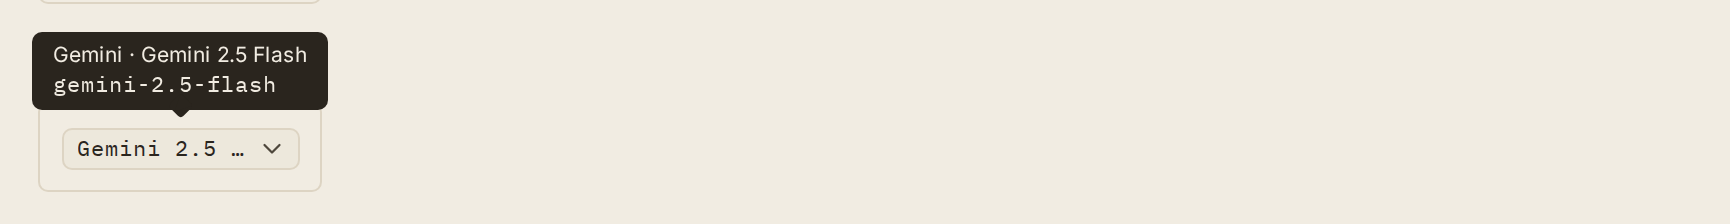
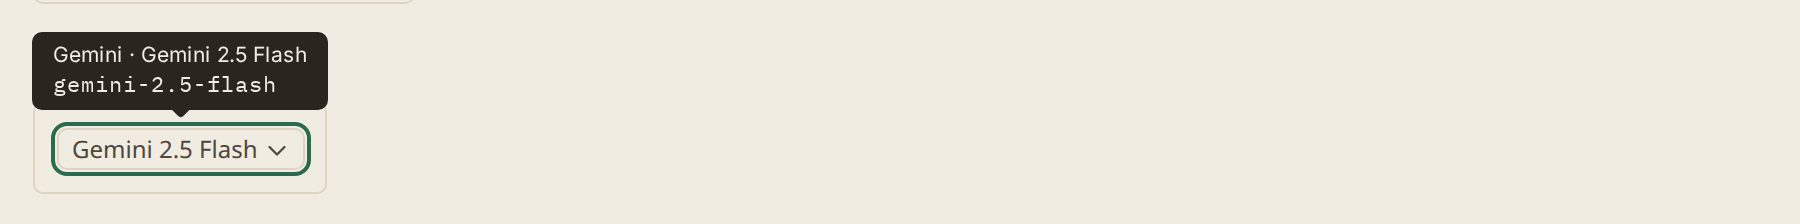
fix: reconnect after a slow bridge restart, and widen the model chip
Only sockets that actually open spend the drop budget. A minute of
healthy connection clears it, and focus, visibility, or coming back
online starts a fresh try. The chip is 12rem wide in Inter at 12px so
Gemini 2.5 Flash stays whole.

diff --git a/src/hooks/useAiActivity.ts b/src/hooks/useAiActivity.ts
@@ -24,8 +24,12 @@ const WS_UI_URL = 'ws://localhost:9711'
 const HIGHLIGHT_DURATION_MS = 800
 const RECONNECT_BASE_MS = 3000
 const RECONNECT_MAX_MS = 30_000
-/** A bridge that connects and then dies does not reconnect forever. */
-const MAX_DROPS_AFTER_OPEN = 5
+/** Opened sockets that then die. A retry that never connects does not count. */
+const MAX_OPENED_DROPS = 5
+/** A minute up clears the drop count, so later blips get a fresh budget. */
+const HEALTHY_RESET_MS = 60_000
+const WS_CONNECTING = 0
+const WS_OPEN = 1
 
 function reconnectDelay(attempt: number): number {
   return Math.min(RECONNECT_MAX_MS, RECONNECT_BASE_MS * 2 ** attempt)
@@ -163,12 +167,18 @@ function useUiActionSocket(handleMessage: (event: MessageEvent) => void, clearHi
     let ws: WebSocket | null = null
     let mounted = true
     let attempt = 0
-    let opened = false
-    let dropsAfterOpen = 0
+    let openedDrops = 0
+    let gaveUp = false
     let reconnectTimer: ReturnType<typeof setTimeout> | null = null
+    let healthyTimer: ReturnType<typeof setTimeout> | null = null
+
+    function clearHealthyTimer() {
+      if (healthyTimer) clearTimeout(healthyTimer)
+      healthyTimer = null
+    }
 
     function scheduleReconnect() {
-      if (!mounted || reconnectTimer) return
+      if (!mounted || gaveUp || reconnectTimer) return
       const delay = reconnectDelay(attempt)
       attempt += 1
       reconnectTimer = setTimeout(() => {
@@ -178,25 +188,38 @@ function useUiActionSocket(handleMessage: (event: MessageEvent) => void, clearHi
     }
 
     function connect() {
-      if (!mounted) return
+      if (!mounted || gaveUp) return
+      if (ws && (ws.readyState === WS_CONNECTING || ws.readyState === WS_OPEN)) return
       try {
-        ws = new WebSocket(WS_UI_URL)
-        ws.onmessage = handleMessage
-        ws.onopen = () => {
-          opened = true
+        const socket = new WebSocket(WS_UI_URL)
+        ws = socket
+        let thisOpened = false
+        socket.onmessage = handleMessage
+        socket.onopen = () => {
+          thisOpened = true
           attempt = 0
+          clearHealthyTimer()
+          healthyTimer = setTimeout(() => {
+            openedDrops = 0
+          }, HEALTHY_RESET_MS)
         }
-        ws.onclose = () => {
-          if (opened) {
-            dropsAfterOpen += 1
-            if (dropsAfterOpen >= MAX_DROPS_AFTER_OPEN) {
+        socket.onclose = () => {
+          if (ws === socket) ws = null
+          clearHealthyTimer()
+          if (!mounted) return
+          // Only a socket that reached open spends the drop budget.
+          // A refused retry during a restart does not.
+          if (thisOpened) {
+            openedDrops += 1
+            if (openedDrops >= MAX_OPENED_DROPS) {
+              gaveUp = true
               console.debug('[ai-activity] UI bridge dropped; stopped reconnecting')
               return
             }
           }
           scheduleReconnect()
         }
-        ws.onerror = () => {
+        socket.onerror = () => {
           console.debug('[ai-activity] UI bridge socket failed')
         }
       } catch (error) {
@@ -205,12 +228,33 @@ function useUiActionSocket(handleMessage: (event: MessageEvent) => void, clearHi
       }
     }
 
+    function wake() {
+      if (!mounted || document.visibilityState === 'hidden') return
+      gaveUp = false
+      openedDrops = 0
+      attempt = 0
+      if (reconnectTimer) clearTimeout(reconnectTimer)
+      reconnectTimer = null
+      connect()
+    }
+
+    function onVisible() {
+      if (document.visibilityState === 'visible') wake()
+    }
+
+    window.addEventListener('focus', wake)
+    window.addEventListener('online', wake)
+    document.addEventListener('visibilitychange', onVisible)
     connect()
 
     return () => {
       mounted = false
+      window.removeEventListener('focus', wake)
+      window.removeEventListener('online', wake)
+      document.removeEventListener('visibilitychange', onVisible)
       ws?.close()
       clearHighlightTimer()
+      clearHealthyTimer()
       if (reconnectTimer) clearTimeout(reconnectTimer)
     }
   }, [clearHighlightTimer, handleMessage])

diff --git a/src/components/NativeChatModelPicker.tsx b/src/components/NativeChatModelPicker.tsx
@@ -45,7 +45,7 @@ import {
 } from '../lib/rhizomeChatModels'
 import { resolveNativeChatTarget } from '../lib/nativeChatTargets'
 import { SETTINGS_MENU_Z_CLASS } from '../lib/settingsMenuLayer'
-import { Tooltip, TooltipContent, TooltipProvider, TooltipTrigger } from '@/components/ui/tooltip'
+import { Tooltip, TooltipContent, TooltipTrigger } from '@/components/ui/tooltip'
 import { trackPrimeModelChanged, trackRhizomeModelChanged } from '../lib/productAnalytics'
 import { primeModelLabel, usePrimeHostStatus } from '../hooks/usePrimeHostStatus'
 
@@ -164,11 +164,11 @@ export function NativeChatModelPicker({
   const rowLabel = prime ? displayName : (selectedRhizome?.label ?? displayName)
   const visibleText = chip ? displayName : rowLabel
   const tooltipTitle = providerName ? `${providerName} · ${displayName}` : displayName
-  const tooltipId = rawId ?? displayName
+  const showRawId = rawId != null && rawId !== displayName
   // WCAG 2.5.3: the accessible name starts with the text the control shows.
   const accessibleName = chip
-    ? [displayName, providerName, rawId].filter((part): part is string => Boolean(part)).join(', ')
-    : [rowLabel, rawId].filter((part): part is string => Boolean(part)).join(', ')
+    ? [displayName, providerName, showRawId ? rawId : null].filter((part): part is string => Boolean(part)).join(', ')
+    : [rowLabel, showRawId ? rawId : null].filter((part): part is string => Boolean(part)).join(', ')
   const keyed = excludeKeylessRhizomeModels(listed, providers, selectedId)
   const visibleRhizome = filterRhizomeChatModels(keyed, query)
   const needle = query.trim().toLowerCase()
@@ -312,7 +312,6 @@ export function NativeChatModelPicker({
           setOpen(next)
         }}
       >
-        <TooltipProvider delayDuration={300}>
         <Tooltip>
           <TooltipTrigger asChild>
             <DropdownMenuTrigger asChild>
@@ -325,7 +324,7 @@ export function NativeChatModelPicker({
                   chip
                     ? cn(
                         'h-6 max-w-full shrink self-center rounded-md border border-border bg-transparent px-2',
-                        'font-mono text-[11px] text-muted-foreground',
+                        'font-sans text-[12px] text-muted-foreground',
                         'hover:bg-accent/50 hover:text-foreground',
                         'data-[state=open]:bg-accent',
                         NATIVE_CHAT_MODEL_CHIP_MAX_WIDTH_CLASS,
@@ -349,10 +348,11 @@ export function NativeChatModelPicker({
           </TooltipTrigger>
           <TooltipContent side="top" data-testid="native-chat-model-tooltip">
             <div>{tooltipTitle}</div>
-            <div className="font-mono text-[11px]" data-testid="native-chat-model-tooltip-id">{tooltipId}</div>
+            {showRawId ? (
+              <div className="font-mono text-[11px]" data-testid="native-chat-model-tooltip-id">{rawId}</div>
+            ) : null}
           </TooltipContent>
         </Tooltip>
-        </TooltipProvider>
         <DropdownMenuContent
           side={chip ? menuSide : 'bottom'}
           align="start"

diff --git a/src/hooks/useAiActivity.test.ts b/src/hooks/useAiActivity.test.ts
@@ -16,6 +16,7 @@ class MockWebSocket {
   onclose: (() => void) | null = null
   onopen: (() => void) | null = null
   close = vi.fn()
+  readyState = 0
   url: string
 
   constructor(url: string) {
@@ -79,20 +80,54 @@ describe('useAiActivity', () => {
     debug.mockRestore()
   })
 
-  it('stops reconnecting after the bridge accepts and then keeps dropping', () => {
+  it('keeps retrying through a slow restart when those tries never connect', () => {
     const debug = vi.spyOn(console, 'debug').mockImplementation(() => {})
     renderHook(() => useAiActivity())
     act(() => { lastWsInstance?.onopen?.() })
+    act(() => { lastWsInstance?.onclose?.() })
+    for (let retry = 0; retry < 8; retry += 1) {
+      act(() => { vi.advanceTimersByTime(30_000) })
+      const failed = lastWsInstance
+      act(() => { failed?.onclose?.() })
+      expect(debug).not.toHaveBeenCalledWith('[ai-activity] UI bridge dropped; stopped reconnecting')
+    }
+    act(() => { vi.advanceTimersByTime(30_000) })
+    expect(lastWsInstance).not.toBeNull()
+    debug.mockRestore()
+  })
+
+  it('resets the drop count after a minute of healthy connection', () => {
+    const debug = vi.spyOn(console, 'debug').mockImplementation(() => {})
+    renderHook(() => useAiActivity())
+    for (let drop = 0; drop < 4; drop += 1) {
+      act(() => { lastWsInstance?.onopen?.() })
+      act(() => { lastWsInstance?.onclose?.() })
+      act(() => { vi.advanceTimersByTime(30_000) })
+    }
+    act(() => { lastWsInstance?.onopen?.() })
+    act(() => { vi.advanceTimersByTime(60_000) })
     for (let drop = 0; drop < 4; drop += 1) {
       const current = lastWsInstance
       act(() => { current?.onclose?.() })
       act(() => { vi.advanceTimersByTime(30_000) })
       expect(lastWsInstance).not.toBe(current)
     }
-    const last = lastWsInstance
-    act(() => { last?.onclose?.() })
-    act(() => { vi.advanceTimersByTime(30_000) })
-    expect(lastWsInstance).toBe(last)
+    expect(debug).not.toHaveBeenCalledWith('[ai-activity] UI bridge dropped; stopped reconnecting')
+    debug.mockRestore()
+  })
+
+  it('reconnects on window focus after giving up', () => {
+    const debug = vi.spyOn(console, 'debug').mockImplementation(() => {})
+    renderHook(() => useAiActivity())
+    for (let drop = 0; drop < 5; drop += 1) {
+      act(() => { lastWsInstance?.onopen?.() })
+      const current = lastWsInstance
+      act(() => { current?.onclose?.() })
+      act(() => { vi.advanceTimersByTime(30_000) })
+    }
+    const givenUp = lastWsInstance
+    act(() => { window.dispatchEvent(new Event('focus')) })
+    expect(lastWsInstance).not.toBe(givenUp)
     expect(debug).toHaveBeenCalledWith('[ai-activity] UI bridge dropped; stopped reconnecting')
     debug.mockRestore()
   })

diff --git a/src/components/activeChatModelParity.test.tsx b/src/components/activeChatModelParity.test.tsx
@@ -1,4 +1,6 @@
-import { render, screen, waitFor, within } from '@testing-library/react'
+import { render as rtlRender, screen, waitFor, within } from '@testing-library/react'
+import type { ReactElement } from 'react'
+import { TooltipProvider } from '@/components/ui/tooltip'
 import { afterEach, describe, expect, it, vi } from 'vitest'
 import type { AiModelProvider } from '../lib/aiTargets'
 import type { Settings } from '../types'
@@ -62,6 +64,10 @@ afterEach(() => {
   resetPrimeHostStatus()
 })
 
+function render(ui: ReactElement) {
+  return rtlRender(<TooltipProvider>{ui}</TooltipProvider>)
+}
+
 function pickers() {
   return screen.getAllByTestId('native-chat-model-picker')
 }
@@ -95,8 +101,11 @@ describe('Settings and the composer chip', () => {
       'ollama/llama3.2',
     ])
     const chip = chipPicker()
-    expect(within(chip).getByTestId('native-chat-model-trigger-label')).toHaveTextContent('llama3.2')
-    expect(within(chip).getByTestId('native-chat-model-trigger')).toHaveAccessibleName(/^llama3\.2,/)
+    const chipText = within(chip).getByTestId('native-chat-model-trigger-label').textContent ?? ''
+    expect(chipText).toBe('llama3.2')
+    const row = pickers().find((node) => node.getAttribute('data-variant') === 'row')
+    expect(within(row!).getByTestId('native-chat-model-trigger-label').textContent).toContain(chipText)
+    expect(within(chip).getByTestId('native-chat-model-trigger')).toHaveAccessibleName('llama3.2, Ollama')
   })
 
   it('keeps a user-picked model on both surfaces and starts the chip name with that model', () => {

diff --git a/src/components/NativeChatModelPicker.test.tsx b/src/components/NativeChatModelPicker.test.tsx
@@ -1,4 +1,6 @@
-import { act, fireEvent, render, screen, waitFor, within } from '@testing-library/react'
+import { act, fireEvent, render as rtlRender, screen, waitFor, within } from '@testing-library/react'
+import type { ReactElement } from 'react'
+import { TooltipProvider } from '@/components/ui/tooltip'
 import { afterEach, beforeEach, describe, expect, it, vi } from 'vitest'
 import type { AiModelProvider } from '../lib/aiTargets'
 import { NATIVE_CHAT_MODEL_CHIP_MAX_WIDTH_CLASS } from '../lib/composerMenuSide'
@@ -8,6 +10,10 @@ import { resetListProviderModelsCache } from '../lib/listProviderModels'
 import { SETTINGS_MENU_Z_CLASS } from '../lib/settingsMenuLayer'
 import { Dialog, DialogContent, DialogTitle } from '@/components/ui/dialog'
 import { NativeChatModelPicker } from './NativeChatModelPicker'
+
+function render(ui: ReactElement) {
+  return rtlRender(<TooltipProvider>{ui}</TooltipProvider>)
+}
 
 const invoked = vi.hoisted(() => ({
   calls: [] as Array<{ cmd: string; args?: Record<string, unknown> }>,
@@ -249,6 +255,8 @@ describe('NativeChatModelPicker', () => {
     expect(tooltipId).toHaveClass('font-mono')
     expect(chip).toHaveClass('rounded-md')
     expect(chip).toHaveClass('h-6')
+    expect(chip).toHaveClass('font-sans')
+    expect(chip).toHaveClass('text-[12px]')
     expect(chip).toHaveClass('self-center')
     expect(chip).toHaveClass('bg-transparent')
     expect(chip).toHaveClass('hover:bg-accent/50')

diff --git a/src/components/SettingsPanel.test.tsx b/src/components/SettingsPanel.test.tsx
@@ -1,5 +1,7 @@
 import { beforeEach, describe, expect, it, vi } from 'vitest'
-import { act, fireEvent, render, screen, within } from '@testing-library/react'
+import { act, fireEvent, render as rtlRender, screen, within } from '@testing-library/react'
+import type { ReactElement } from 'react'
+import { TooltipProvider } from '@/components/ui/tooltip'
 import { SettingsPanel } from './SettingsPanel'
 import type { Settings } from '../types'
 import { APP_COMMAND_IDS, getAppCommandShortcutDisplay } from '../hooks/appCommandCatalog'
@@ -89,6 +91,14 @@ function installMatchMedia(matches = false) {
       dispatchEvent: vi.fn(() => true),
     })),
   })
+}
+
+function render(ui: ReactElement) {
+  const result = rtlRender(<TooltipProvider>{ui}</TooltipProvider>)
+  return {
+    ...result,
+    rerender: (next: ReactElement) => result.rerender(<TooltipProvider>{next}</TooltipProvider>),
+  }
 }
 
 describe('SettingsPanel', () => {

diff --git a/src/components/ChatComposerDeck.test.tsx b/src/components/ChatComposerDeck.test.tsx
@@ -1,4 +1,6 @@
-import { render, screen } from '@testing-library/react'
+import { render as rtlRender, screen } from '@testing-library/react'
+import type { ReactElement } from 'react'
+import { TooltipProvider } from '@/components/ui/tooltip'
 import { describe, expect, it, vi } from 'vitest'
 import { ChatComposerDeck } from './ChatComposerDeck'
 
@@ -9,6 +11,10 @@ vi.mock('../lib/productAnalytics', () => ({
   trackPrimeModelsFreeOnly: vi.fn(),
   trackRhizomeModelChanged: vi.fn(),
 }))
+
+function render(ui: ReactElement) {
+  return rtlRender(<TooltipProvider>{ui}</TooltipProvider>)
+}
 
 describe('ChatComposerDeck', () => {
   it('names the open note as context when Frame B has a split', () => {

diff --git a/src/lib/composerMenuSide.ts b/src/lib/composerMenuSide.ts
@@ -5,7 +5,7 @@ export const COMPOSER_MENU_COLLISION_PADDING_PX = 8
 export const COMPOSER_CHIP_MENU_GAP_PX = 8
 export const NATIVE_CHAT_MODEL_MENU_HEIGHT_PX = 420
 export const NATIVE_CHAT_MODEL_LIST_MAX_HEIGHT_CLASS = 'max-h-[min(60vh,420px)]'
-export const NATIVE_CHAT_MODEL_CHIP_MAX_WIDTH_CLASS = 'max-w-[8.5rem]'
+export const NATIVE_CHAT_MODEL_CHIP_MAX_WIDTH_CLASS = 'max-w-[12rem]'
 
 /**
  * Lift the chip menu above the whole composer box, not just the trigger,

diff --git a/docs/plans/handoffs/2026-10-17-1755-grok-4-7-model-chip-console.md b/docs/plans/handoffs/2026-10-17-1755-grok-4-7-model-chip-console.md
@@ -19,7 +19,7 @@ commits: 4e7773ee
 
 ## Hold follow-up
 
-The chip shows the model display name and truncates with CSS. The tooltip is `Provider · Model` plus the raw id in mono. The accessible name starts with the visible text. A bridge that connects and then drops stops after five drops. #218 had not merged, so the Settings engine wiring stays until that rebase.
+The chip shows the model display name and truncates with CSS at 12rem. The tooltip is `Provider · Model`, plus the raw id in mono when it differs from the display name. The accessible name starts with the visible text. Opened sockets that die stop after five drops; a retry that never connects does not count, a minute up resets the count, and focus, visibility, or online wakes a given-up socket. #218 had not merged, so the Settings engine wiring stays until that rebase.
 
 ## Not in this change
 
